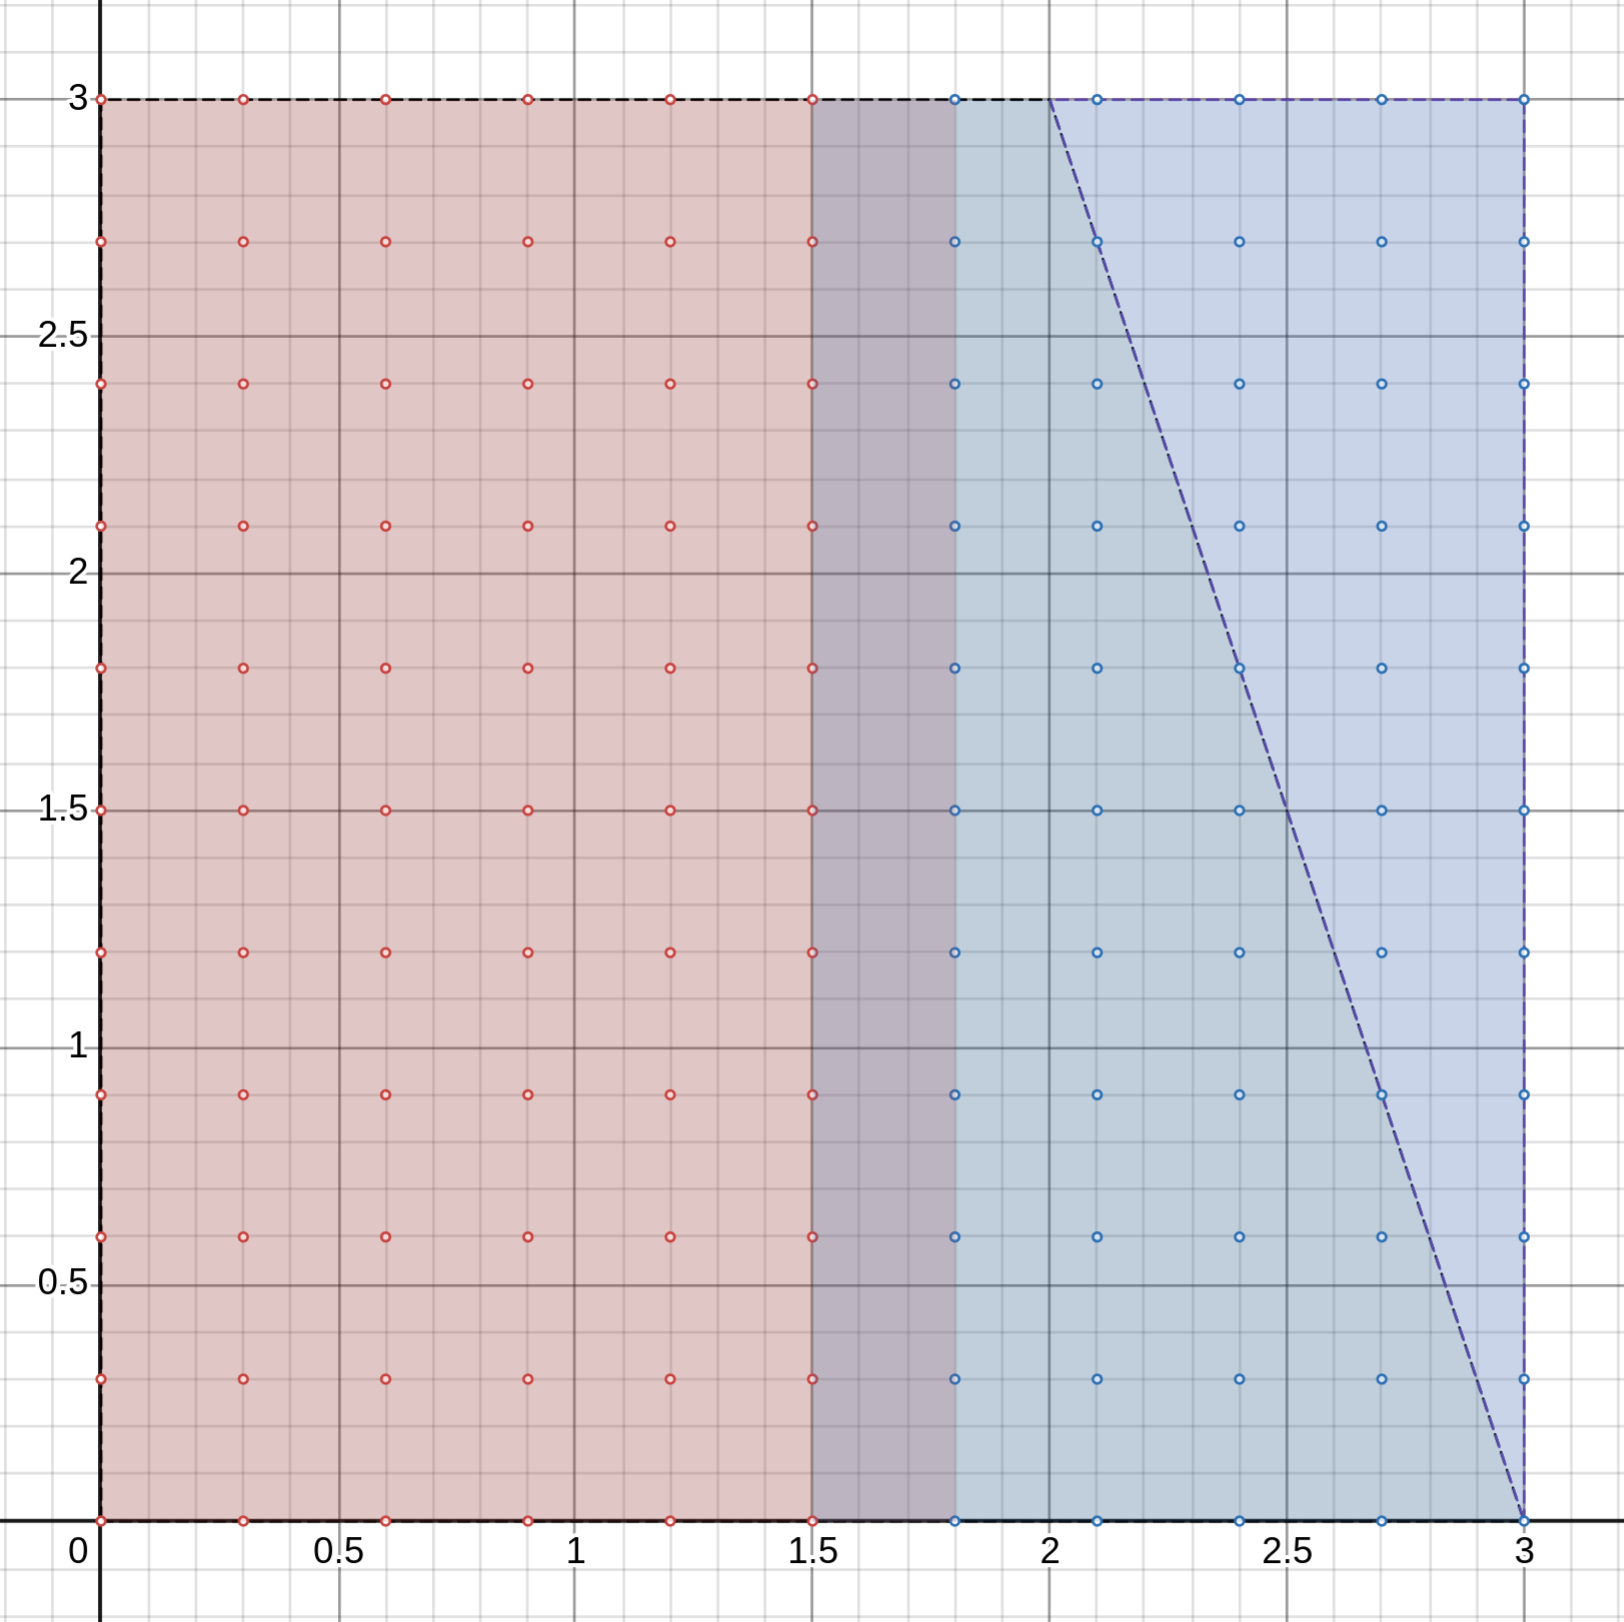
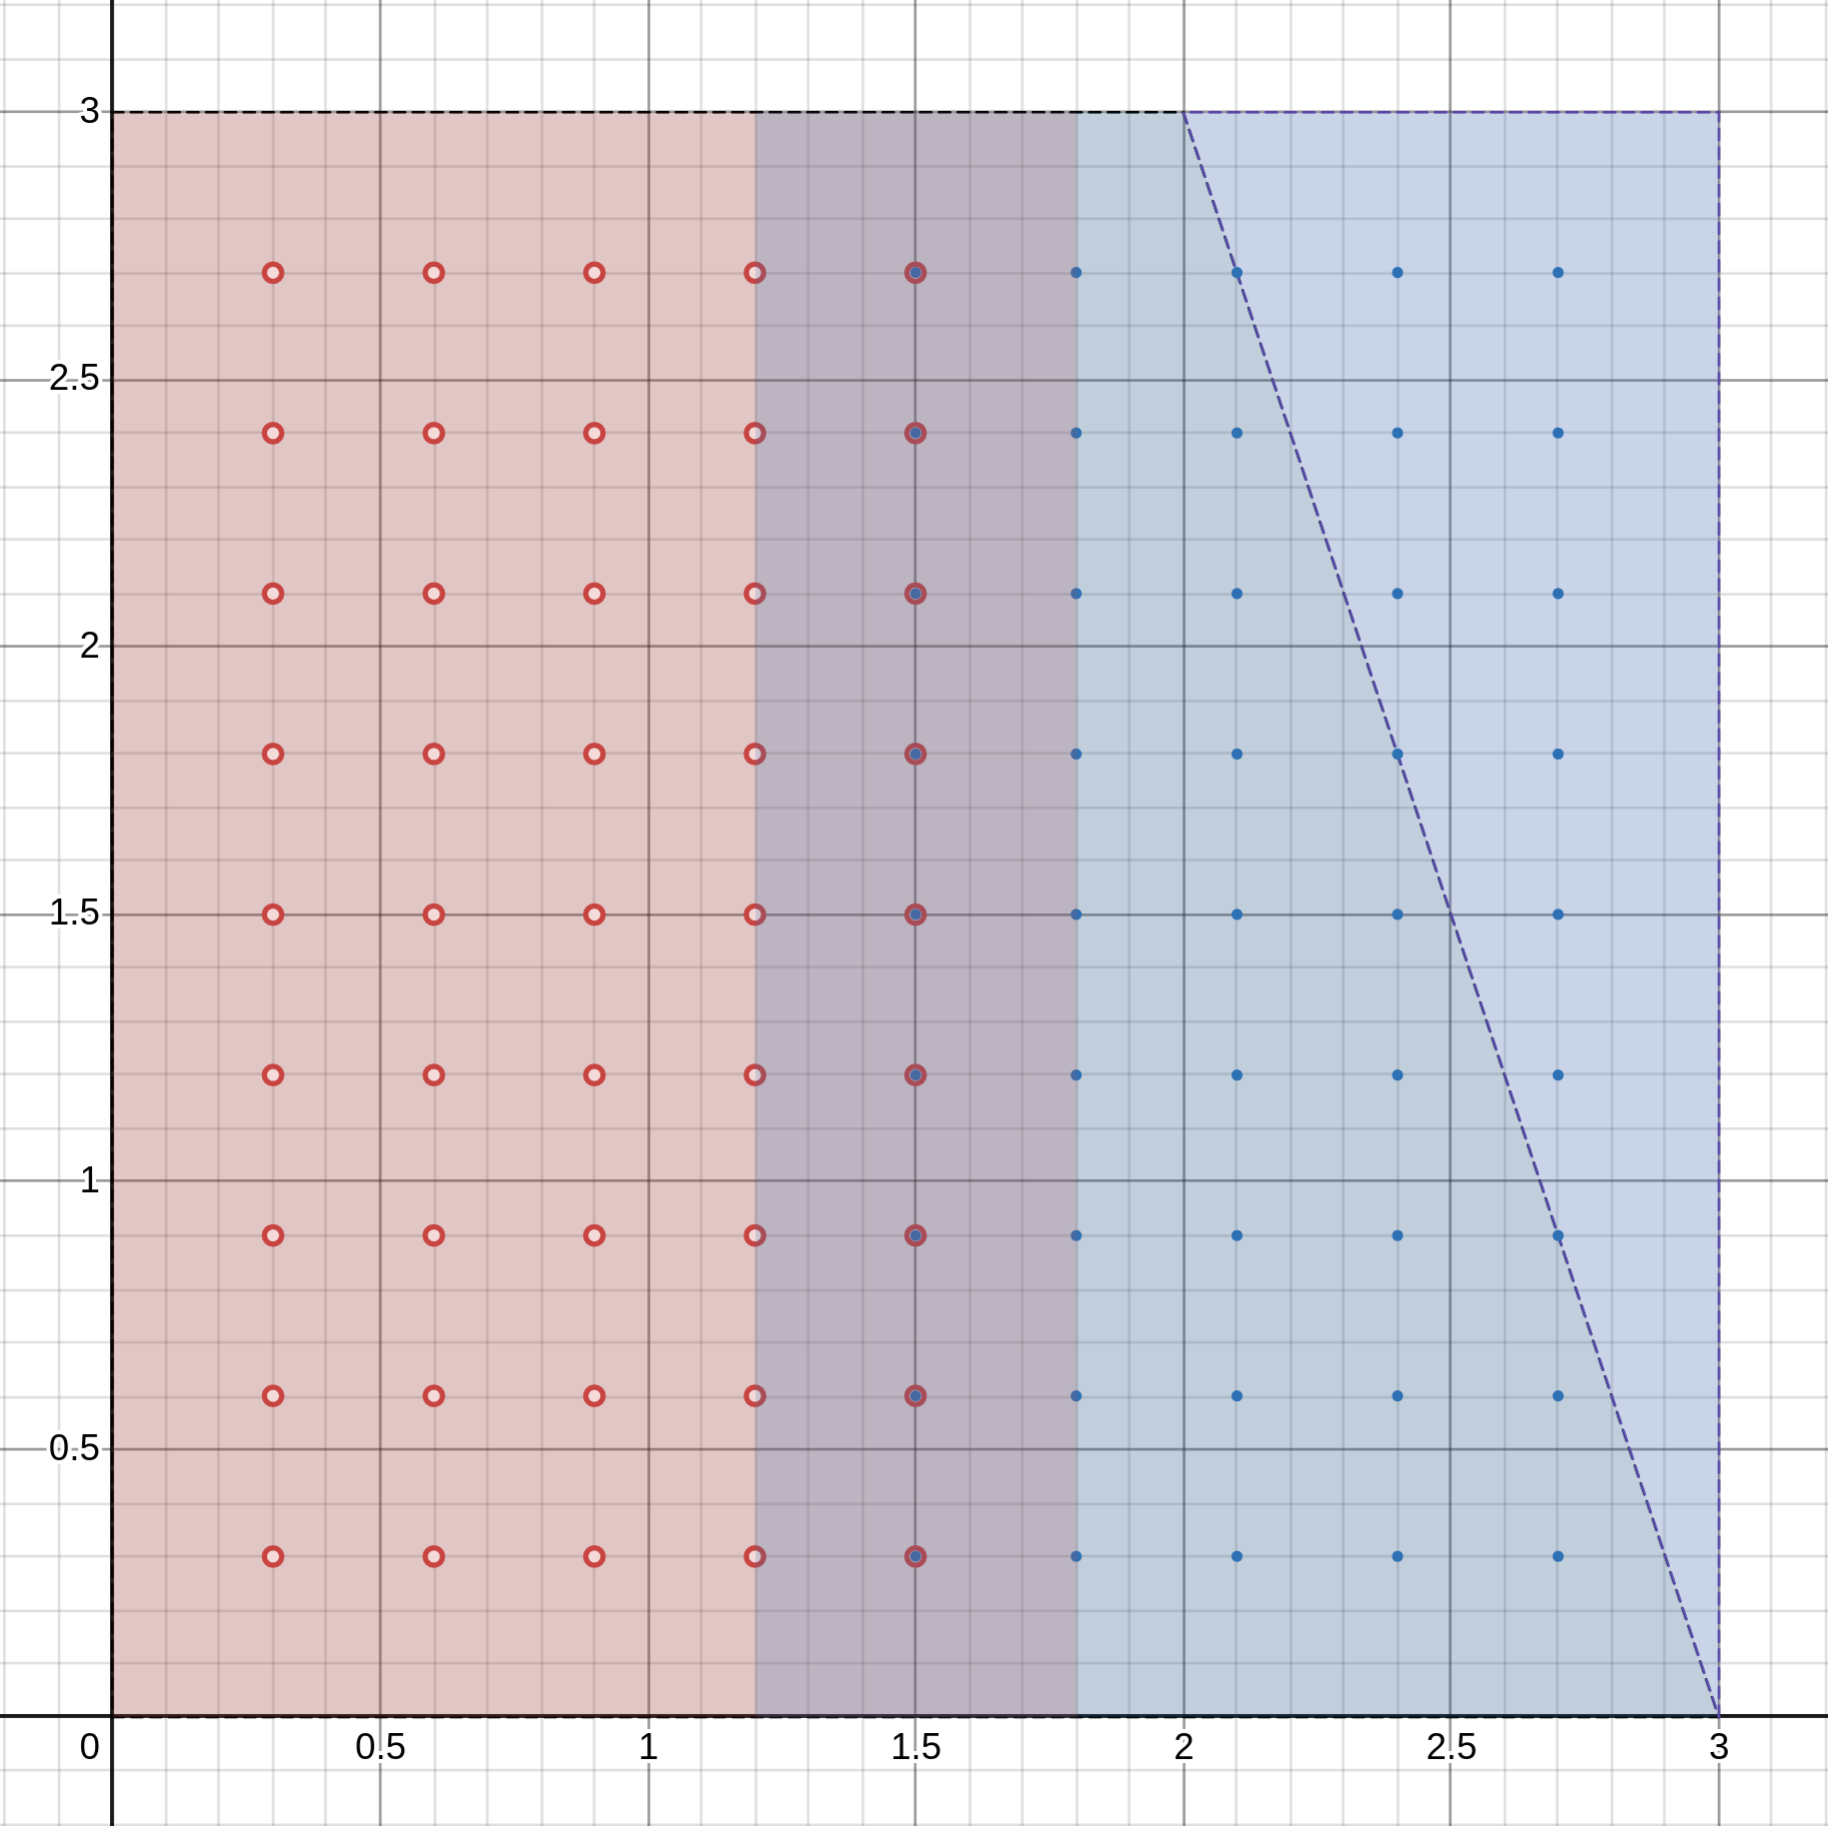
Rewrite MPI docs

diff --git a/mainMPI.cpp b/mainMPI.cpp
@@ -1,16 +1,21 @@
 #include <iostream>
 #include <mpi.h>
 #include <stdio.h>
+#include <vector>
 
 int main(int argc, char *argv[]) {
   int numProc;
   int rank;
+  std::vector<int> ar{};
 
   MPI_Init(&argc, &argv);
   MPI_Comm_size(MPI_COMM_WORLD, &numProc);
   MPI_Comm_rank(MPI_COMM_WORLD, &rank);
 
   std::printf("%d: hello (p=%d)\n", rank, numProc);
+  if (rank % 2 == 0) {
+    MPI_Send(&rank, 1, MPI_INT, 1, 0, MPI_COMM_WORLD);
+  }
   std::printf("%d: goodbye\n", rank);
 
   MPI_Finalize();

diff --git a/docs/mpi.md b/docs/mpi.md
@@ -10,37 +10,31 @@ In this case everything is simple: process 0 send data to process 1 and
 receive data from process 1, analogically is for process 1. Below is 
 illustration of data transfer:
 
-<img src="static/MPI_connection_2.svg">
+<img src="static/MPI_connection_2_dark.svg">
 
 ### Example
 Let's consider grid $(M, N) = (10, 10)$. If we divide square evenly ($x=1.5$), 
-then we would have issue with boarder values on that line. However goal is to 
-receive boarder values, calculated in another process. Therefore let's add
-extra nodes for first (red) area and give rest to the second (blue) area.
-Nodes ration $\frac{x}{y}$ for those areas are correspondingly equals: $6/11$
-and $5/11$
+then we would have issue with boarder values on that line. However the goal is 
+to receive boarder values, calculated in another process. Therefore let's add
+extra nodes for first (red) and second (blue) areas.
+Nodes ration $\frac{x}{y}$ for those areas are equal $5/9$.
 
 <img src="static/MPI_grid_2.png" width=500>
 
 ## 4 process
 ### Concept
 In this case connection became more complex. Each sub-rectangle contains
-boarder values of all neighboring ones: next (arrows *A*), previous (arrows *B*)
-and adjacent (arrows *C*). It's not obvious why should be communicate with 3,
-but not 2 process. To get the answer you may look on example below.
+boarder values of all neighboring ones: next, previous and adjacent.
+However the idea is to calculate solution in first area **0** (the green one).
+After that initialize values in grid nodes of second area **1** with bottom 
+row of green area. Then initialize values for third area **2** with side right
+column of red area. Then use orange top row to initialize values for last,
+blue area **3**.
 
-<img src="static/MPI_connection_4.svg">
+<img src="static/MPI_connection_4_dark.svg">
 
 ### Example
 Again grid size is chosen $(10, 10)$, but now we have four sub-rectangles. 
-As you can see process 3, for instance, contains:
-* bottom boarder values of area, processed by process 0
-* right boarder values of area, processed by process 2
-* on bottom right vertex of area, processed by process 3
-Therefore, as were mentioned, data should be sended three times and be received
-three times.
 
-Nodes rations are as follow: $\frac{x_0}{y_0} = 6 / 5$,
-$\frac{x_1}{y_1} = 5 / 5$, $\frac{x_2}{y_2} = 5 / 6$, $\frac{x_3}{y_3} = 6 / 6$
-
+All nodes rations are equal $5/5 =1$
 <img src="static/MPI_grid_4.png" width=500>
